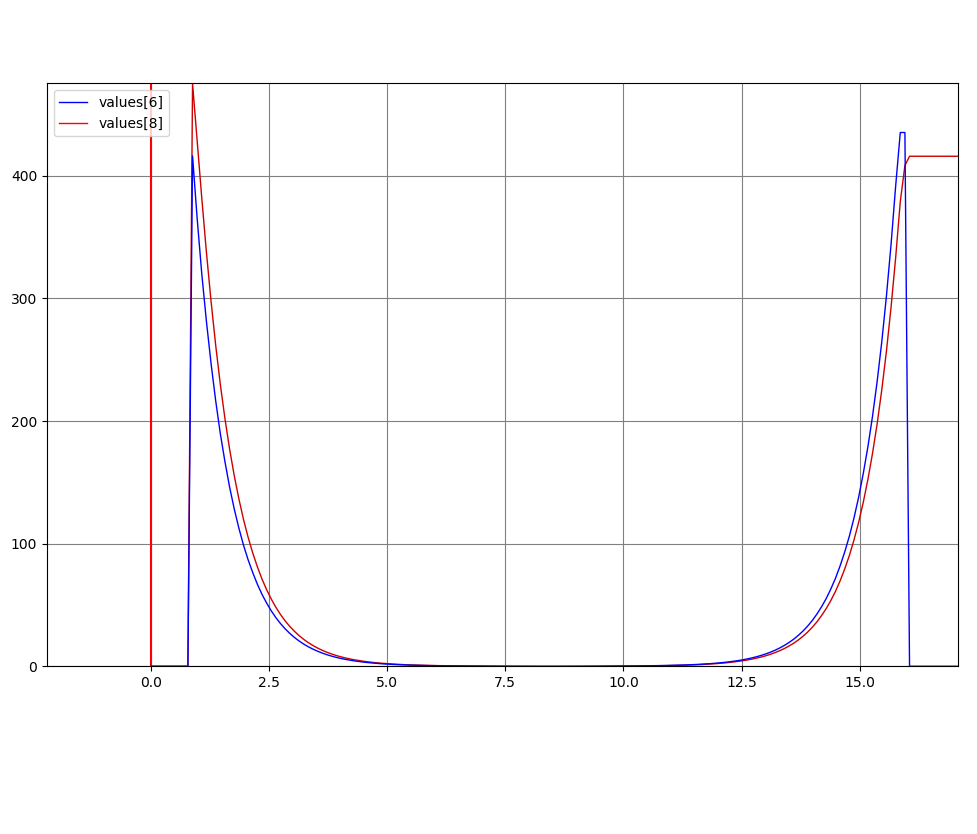
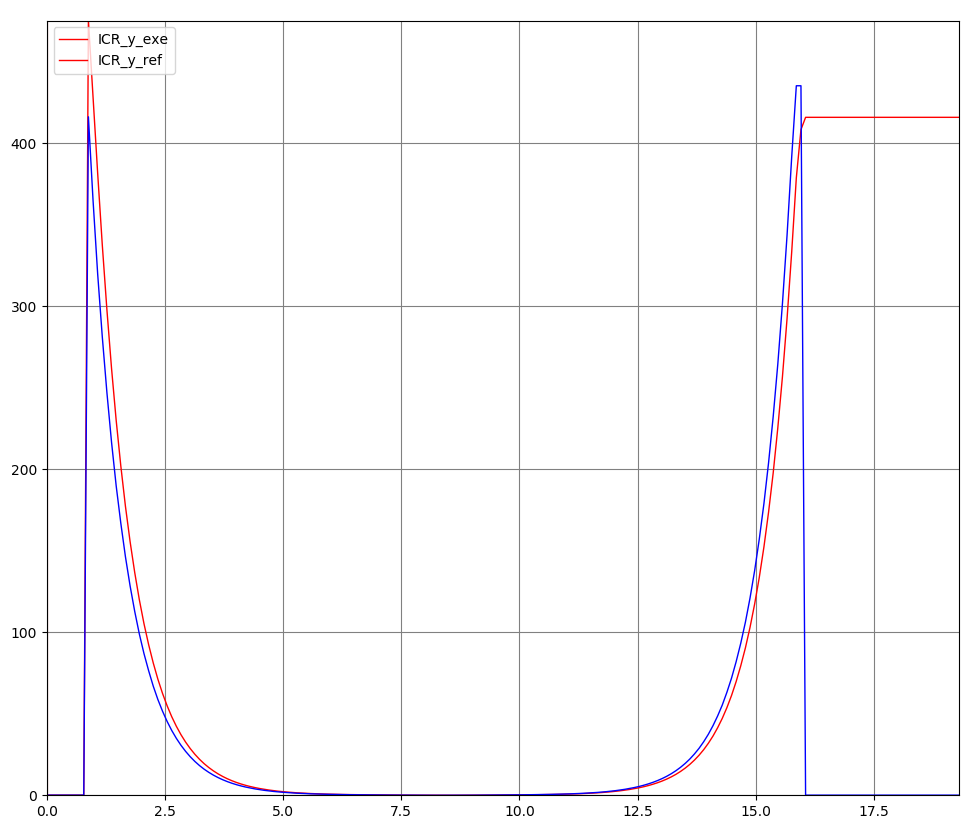
f

diff --git a/Chapters/Conclusion.tex b/Chapters/Conclusion.tex
@@ -5,32 +5,17 @@
 \label{cha:conclusion}
 
 % state problem shortly
-Building climate control is important due to provide the optimal conditions, may it be for working inside an office building or for crop growth.
-Moreover, building climate control gives the possibility to reduce the costs for operating buildings and to reduce the consumption of energy.
+The non-holonomic omnidirectional mobile robot has great potential in the industry market. Yet the control of it is still a complex task to be solved. The constraint on degree of mobility limit us from making full use of it's omnidirectional property. The existing solutions are focusing on pre-defined trajectory, but connected to navigation is a pre-request for it to be intelligent. Autonomous navigation for omnidirectional robot can generate trajectory that is inconsistent with time, especially for obstacle avoidance. Which is still a big challenge for the platform control.
 
-For building climate control the best results are often achieved with nonlinear model predictive control because the climate dynamic is highly complex and nonlinear.
-Since obtaining a nonlinear prediction model is an time-consuming task and requires expertise, the work presented an augmented linear model predictive control scheme providing similar results to nonlinear model predictive control.
-The error due to neglecting the nonlinear dynamics with a linear prediction model is estimated with Gaussian processes and included in the computations as a parameter.\par\medskip
+
+
 
 % contribution
-It was shown using the example of a greenhouse that error estimation with Gaussian processes improves the quality for the control significantly.
-For set-point tracking the root mean square error was reduced by nearly one order of magnitude.
-Applying the augmentation in an economic model predictive control scheme resulted in lower costs for operating the greenhouse while providing better conditions for the crop growth.
-Thus, the performance of nonlinear model predictive control and linear model predictive control with error estimation via Gaussian processes are comparable.
-Furthermore, the advantages of economic model predictive control were demonstrated.
-Controlling the greenhouse climate with economic model predictive control resulted in significant cost savings compared to set-point tracking model predictive control.\par\medskip
+In this paper, we review the existing solutions and bring the idea of ICR optimization by \cref{sorour2016motion}. Targeting the drawback of such idea, we propose an approximation based inverse kinematic control method as complementary. Our final solution combine the two control logic and come up with a switching logic to choose the control method that is most appliable for the current state of the platform. From the previous chapter \cref{cha:experiment}, we can see that our controller basically met the design objective. When inconsisteny happens, the smoothed velocity command will be executed instead of the original reference velocity. Which makes it capable of handling the inconsistency trajectory. \par\medskip
 
 % future work
-One possible improvement for the by Gaussian processes extended linear model predictive control scheme is the estimation of periodic occurring errors as it was shown in \cite{Klenske.2016}.
-Since disturbance variables like the solar radiation are linked to the day-night-cycle a Gaussian process with periodic kernel could model this error.
-On-line optimization of the hyperparameters would allow adaption to the current weather situation.
+There are a few control problems left unsolved in our paper.
 
-Another direction for further developments is the application of the augmented linear model predictive control scheme on embedded systems.
-This is possible due to the low computational requirements compared to nonlinear model predictive control.
-For the implementation \textbf{\textmu AO-MPC}, a code generation software package for linear model predictive control, is proposed.
-For more details see \cite{Zometa.2013}.
+First problem is kinematic singularity. This term is used to refer the case when the ICR move close to the wheel heel point $ICR=[h_{xi},h_{xi}]$. In such situation, the steering angle of the wheel ICR is on is not defined. These singularities is ignored in this paper as it need significant effort to work on. Recent work has proposed some potential solutions \cref{sorour2019complementary}.
 
-Finally, \cite{Plate.1999} presents a more systematic approach to obtain Gaussian process models.
-The influence of all input dimensions and the relations between those can be gradually examined.
-By dropping input dimensions and relations with little impact the size of the Gaussian process model is decreased and the interpretability is increased. 
-Thus, the computational expense of the Gaussian process models is reduced.
+Second problem is that the optimization based control logic is not robust. The pre-request for the optimization algorithm to find the optimal point is that the feasible region is not empty. But in practice, the drives of motor have error and the ICR is ill-defined as we mentioned in \cref{fig:illDefinedICR}. The feasible region is defined as the intersection of four steering feasible regions. which is calculated based on the current steering angle. Some times the error is large enough that no  intersection exist anymore, and the optimization algorithm will fail. Some machanism need to be implemented to specially treat such situation to make this controller robust.

diff --git a/Abstracts/Abstract_english.tex b/Abstracts/Abstract_english.tex
@@ -2,23 +2,10 @@
 %%%%%%%%%%%%%%%%%%%%%%%%%%%%%%%%%%%%%%%%%%%%%%%%%%%%%%%%%%%%%%%%%%%%%%%%%%%%%%%%
 \addchap{Abstract}
 
-Building climate control provides two important benefits.
-First, it allows adjusting temperature and humidity to the desired values, be it comfortable working conditions in an office building, or optimal crop growth conditions in a greenhouse.
-Second, climate control enables the reduction of energy consumption and costs.
+The non-holonomic omnidirectional mobile robot has great potential in the industry market. The platform is equiped with 4 conventional centered wheels, and thus endued with large loading capability that is comparable with differential drive structures. In the mean time, the omnidirectional property makes it outperform differential drive structures in terms of flexibility. On the other hand, the holonomic omnidirectional counterparties has better maneuver flexibility. But the clastor or Swedish wheel they equipped can not hold large amount of loading and is more vulnerable to uneven ground. All these factors make non-holonomic omnidirectional structure a competitive candidate for industry use. 
 
-Minimizing the costs of operating a building while at the same time providing right conditions is hard to achieve using conventional control approaches.
-Model predictive control achieves this objective due to its ability to include predictions like the weather forecast into its computations.
-Moreover, model predictive control considers constraints like the limits of the actuators.
 
-Nonlinear model predictive control often achieves the best results because climate dynamics are nonlinear and highly complex.
-Due to neglecting the nonlinear dynamics, the accuracy of linear model predictive control is lower.
-The lower precision reduces the cost savings and increase constraint violations compared to using nonlinear model predictive control.
-However, the nonlinear approach needs higher computational requirements than the linear one.
-Furthermore, deriving a nonlinear model is a time-consuming task and requires expertise.
+However the control of this structure is still a complex task. This kind of robot only have 1 degree of mobility(DoF) which means they can not change their task space velocity instantly. Such constraint limit us from making full use of it's omnidirectional property. The existing solutions are focusing on pre-defined trajectory, but connected to navigation is a pre-request for it to be intelligent. Autonomous navigation for omnidirectional robot can generate trajectory that is inconsistent with time, especially for obstacle avoidance. Which is still a big challenge for the platform control.
 
-Hence, we propose augmenting linear model predictive control with Gaussian processes to diminish the loss of accuracy.
-The Gaussian processes are used to model the neglected nonlinear dynamics and are implemented as a parameter in the linear prediction model.
-Due to this implementation the advantages of linear model predictive control are preserved while the drawbacks are significantly reduced.
-
-On this work, we show on the example of a greenhouse model that fusing linear model predictive control and machine learning based on Gaussian processes results in a similar performance respective cost savings and avoidance of constraint violations as nonlinear model predictive control.
+The scope of this work is limited on the low-level controller, which takes the task space velocity/acceleration command as input, and output the joint reference signal to joint motors. Which assumes the existence of an omnidirectional global planner and a well-tuned motor dynamic controller.
 %Since the augmented linear model predictive control scheme is linear the computational effort is comparable to conventional linear model predictive control.

diff --git a/Chapters/experiment.tex b/Chapters/experiment.tex
@@ -134,40 +134,63 @@ And at $t=12.2$ the reference end up with $\dot{\xi}=[-1,0,0]$. the behavior is 
 %%%%%%%%%%%%%%%%%%%%%%%%%%%%%%%%%%%%%%%%%%%%%%%%%%%%%%%%%%%%%%%%%%%%%%%%%%%%%%%%%%%%%%%%%%%%%%%%%%%%%%%%
 \section{Translation with rotation}
 For this trajectory, the platform is moving along x direction with constant velocity, and rotate for 360 degree at the same time with the angular velocity as a function of time $\dot{\theta}=\frac{1}{1+exp(t-t_d)}$, where $t_d=5s$ is a delay factor. For this trajectory the ICR is moving around with a relative high velocity and switching between 2 control logic happens twice.
+
 \subsection{Task space velocity response}
-\begin{figure}[!h]
+The response on the task space velocity have small error in this case, this is due to the fact that the changing of $\dot{\xi}$ result in fast change of joint response $\dot{\beta}, \dot{\phi}$ and thus been damped. This could be a big drawback if the robot is conducting accuracy-critical missions, in this case the platform might not conduct the exact incoming command.
+\begin{figure}[H]
     \centering
-    \includegraphics[width=0.8\textwidth]{Figures/360_t.png}
-    \caption{$\dot{\theta}$}
+    \includegraphics[width=\textwidth]{Figures/360_t.png}
+    \caption{Angular velocity $\dot{\theta}$}
     \label{fig:my_label}
 \end{figure}
 
-\begin{figure}[!h]
-    \centering
-    \includegraphics[width=0.8\textwidth]{Figures/360_x.png}
-    \caption{$\dot{x}$}
-    \label{fig:my_label}
+\begin{figure}[H]
+     \centering
+     \begin{subfigure}[b]{0.49\textwidth}
+         \centering
+          \includegraphics[width=1.05\textwidth]{Figures/360_x.png}
+         \caption{$\dot{x}$}
+         \label{fig:360X}
+     \end{subfigure}
+     \hfill
+     \begin{subfigure}[b]{0.49\textwidth}
+         \centering
+         \includegraphics[width=1.05\textwidth]{Figures/360_y.png}
+         \caption{$\dot{y}$}
+         \label{fig:90Y}
+     \end{subfigure}
+     
+        \caption{translation velocity}
+        \label{fig:360}
 \end{figure}
+% \begin{figure}[H]
+%     \centering
+%     \includegraphics[width=0.6\textwidth]{Figures/360_x.png}
+%     \caption{$\dot{x}$}
+%     \label{fig:my_label}
+% \end{figure}
 
-\begin{figure}[!h]
-    \centering
-    \includegraphics[width=0.8\textwidth]{Figures/360_y.png}
-    \caption{$\dot{y}$}
-    \label{fig:my_label}
-\end{figure}
+% \begin{figure}[H]
+%     \centering
+%     \includegraphics[width=0.7\textwidth]{Figures/360_y.png}
+%     \caption{$\dot{y}$}
+%     \label{fig:my_label}
+% \end{figure}
 %%%%%%%%%%%%%%%%%%%%%%%%%%%%%%%%%%%%%%%%%%%%%%%%%%%%%%%%%%%%%%%%%%%%%%%%%%%%%%%%%%%%%%%%%%%%%%%%%%%%%%%%
 \subsection{ICR response}
-
+In the ICR space, the ICR response fast with the change of the reference. The sudden change of ICR position is properly handled. The switching between control logic happens at time instance $t=1s$ and $t=16s$ smoothly.
 \begin{figure}[!h]
     \centering
-    \includegraphics[width=0.8\textwidth]{Figures/360_ICR_x.png}
+    \includegraphics[width=0.75\textwidth]{Figures/360_ICR_x.png}
     \caption{$\Tilde{ICR_x}$}
     \label{fig:360_ICR_x}
 \end{figure}
 
 \begin{figure}[!h]
     \centering
-    \includegraphics[width=0.8\textwidth]{Figures/360_ICR_y.png}
+    \includegraphics[width=0.75\textwidth]{Figures/360_ICR_y.png}
     \caption{$\Tilde{ICR_y}$}
     \label{fig:360_ICR_y}
 \end{figure}
+
+In general the controller response is quite fast and is able to follow the reference joint command we give, this is partly because of the good joint dynamic controller we have on the wheel, which is also a pre-request for our control logic to work. 

diff --git a/Chapters/Introduction.tex b/Chapters/Introduction.tex
@@ -12,6 +12,12 @@ importance due to their high maneuverability in the task space, which makes them
 Swedish wheel or claster wheel, these kinds of structures are called holonomic omnidirectinal as they have 3 degree of freedom in the joint space w.r.t 3 degree of freedom in the task space. However, their complex 
 wheel structure causes a lot of problem in practice, such as vulnerable to uneven ground and noise etc. To avoid such drawback while make use of the flexibility. We put our sight on the so called non-holonomic 
 omnidirectinal mobile robot. 
+\begin{figure}[H]\label{fig:mobilePlatform}
+    \centering
+    \includegraphics[width=0.8\textwidth]{Figures/mobilePlatform.jpg}
+    \caption{The mobile platform}
+    \label{fig:mobilePlatform}
+\end{figure}
 
 \subsection{Instantaneous Center of Rotation}
 \label{sec:Instantaneous Center of Rotation}

diff --git a/Chapters/ICR.tex b/Chapters/ICR.tex
@@ -77,7 +77,7 @@ where $\delta=1e-8$ is a small damping factor to prevent the $ICR_{ref}$ and $\d
 To estimate the current ICR, we simply use the definition of it, the intersection of zero motion lines. In ideal circumstance, all four line will intersect at one point which means the kinematic constraints are 
 perfectly respected. However, as always, this is not the case in practice. Each pair of wheels can define a ICR, and in the worst case there will be totally 6 current ICR defined. Such case is illustrated in figure 
 
-\begin{figure}[t]
+\begin{figure}[t]\label{fig:illDefinedICR}
 	\begin{center}
 	\resizebox{10cm}{!}
     {
@@ -96,7 +96,7 @@ perfectly respected. However, as always, this is not the case in practice. Each 
 		\end{tikzpicture}
 		}
 	\end{center}
-	\caption{ICR}
+	\caption{Ill-defined ICR}
 \end{figure}
 
 

diff --git a/Chapters/ControlFramework.tex b/Chapters/ControlFramework.tex
@@ -74,7 +74,7 @@ switching block as platform current state. The control sequence flow is illustra
 
 			
 		    \node (FKAM) at (-2, 0) [rectangle, draw=blue!50, text=blue!70] {FK};
-		    \node (switch) at (2, 0) [rectangle, draw=red!50, text=red!70] {Switching};
+		    \node (switch) at (2, 0) [diamond, draw=red!50, text=red!70] {switch};
 		    \node (ICR) at (2, 2) [rectangle, draw=blue!50, text=blue!70] {ICR };
 		    \node (IKAM) at (2, -2) [rectangle, draw=red!50, text=red!70] {IK};
 			

diff --git a/Preamble/Preamble.tex b/Preamble/Preamble.tex
@@ -167,7 +167,10 @@ listof=totoc					% List of tables and list of figures appears in table of conten
   nameinlink            % Together with hyperref: cross-reference name is part of the hyperlink
 ]{cleveref}             % has to be loaded last!
 \usepackage{tikz,tikz-3dplot}
+\usetikzlibrary{shapes,snakes}
 
+
+\usepackage{float}
 %% BIBLIOGRAPHY PACKAGES %%%%%%%%%%%%%%%%%%%%%%%%%%%%%%%%%%%%%%%%%%%%%%
 \usepackage[
   numbers,              % Numerical references

diff --git a/Thesis.tex b/Thesis.tex
@@ -86,7 +86,7 @@
 
 \cleardoublepage              % next content starts on odd page
 \listoffigures
-\listoftables
+%\listoftables
 
 %% BIBLIOGRAPHY %%%%%%%%%%%%%%%%%%%%%%%%%%%%%%%%%%%%%%%%%%%%%%%%%%%%%%%
 \bibliographystyle{abbrvnat}
